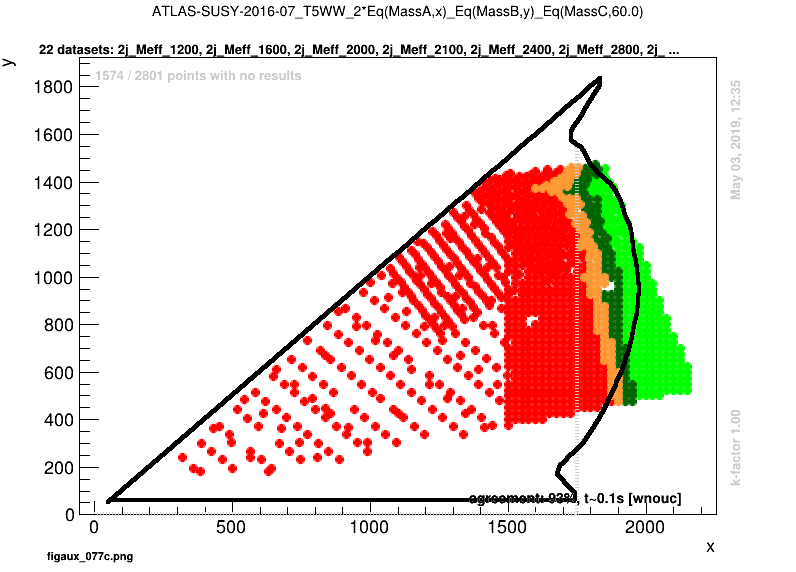
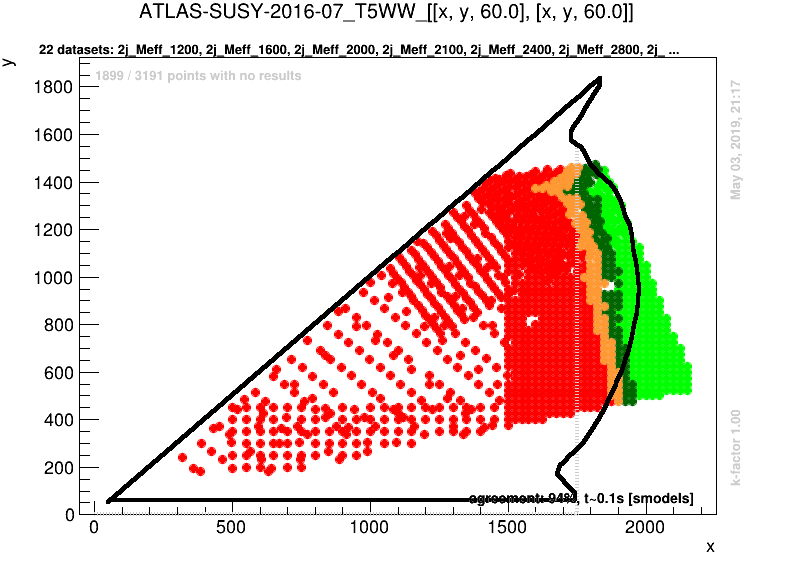
t5ww update

diff --git a/docs/ValidationUgly200rc7.md b/docs/ValidationUgly200rc7.md
@@ -28,7 +28,7 @@ To [official validation plots](Validation200rc7)
 
 | **Result** | **Txname** | **L [1/fb]** | **Validated?** | **Validation plots** | **comment** |
 |------------|------------|--------------|----------------|----------------------|-------------|
-| [ATLAS-SUSY-2016-08](https://atlas.web.cern.ch/Atlas/GROUPS/PHYSICS/PAPERS/SUSY-2016-08/)| [T5Disp](SmsDictionary200rc7#T5Disp)| 32.8| tbd |<a href="https://smodels.github.io/validation/200rc7/13TeV/ATLAS/ATLAS-SUSY-2016-08/validation/T5Disp_2EqMassAx6.582119514e-16_EqMassBy.png"><img src="https://smodels.github.io/validation/200rc7/13TeV/ATLAS/ATLAS-SUSY-2016-08/validation/T5Disp_2EqMassAx6.582119514e-16_EqMassBy.png" /></a><BR><a href="https://smodels.github.io/validation/200rc7/13TeV/ATLAS/ATLAS-SUSY-2016-08/validation/T5Disp_2EqMassAxy_EqMassB100.0.png"><img src="https://smodels.github.io/validation/200rc7/13TeV/ATLAS/ATLAS-SUSY-2016-08/validation/T5Disp_2EqMassAxy_EqMassB100.0.png" /></a><BR><a href="https://smodels.github.io/validation/200rc7/13TeV/ATLAS/ATLAS-SUSY-2016-08/validation/T5Disp_2EqMassAxy_EqMassBx-100.0.png"><img src="https://smodels.github.io/validation/200rc7/13TeV/ATLAS/ATLAS-SUSY-2016-08/validation/T5Disp_2EqMassAxy_EqMassBx-100.0.png" /></a><BR><a href="https://smodels.github.io/validation/200rc7/13TeV/ATLAS/ATLAS-SUSY-2016-08/validation/T5Disp_2EqMassAx_EqWidthA6.582119514e-16_EqMassBy.png"><img src="https://smodels.github.io/validation/200rc7/13TeV/ATLAS/ATLAS-SUSY-2016-08/validation/T5Disp_2EqMassAx_EqWidthA6.582119514e-16_EqMassBy.png" /></a><BR><a href="https://smodels.github.io/validation/200rc7/13TeV/ATLAS/ATLAS-SUSY-2016-08/validation/T5Disp_2EqMassAx_EqWidthAy_EqMassB100.0.png"><img src="https://smodels.github.io/validation/200rc7/13TeV/ATLAS/ATLAS-SUSY-2016-08/validation/T5Disp_2EqMassAx_EqWidthAy_EqMassB100.0.png" /></a><BR><a href="https://smodels.github.io/validation/200rc7/13TeV/ATLAS/ATLAS-SUSY-2016-08/validation/T5Disp_2EqMassAx_EqWidthAy_EqMassBx-100.0.png"><img src="https://smodels.github.io/validation/200rc7/13TeV/ATLAS/ATLAS-SUSY-2016-08/validation/T5Disp_2EqMassAx_EqWidthAy_EqMassBx-100.0.png" /></a>  | <img src="https://smodels.github.io/pics/new.png" /> in 2.0.0rc7!  |
+| [ATLAS-SUSY-2016-08](https://atlas.web.cern.ch/Atlas/GROUPS/PHYSICS/PAPERS/SUSY-2016-08/)| [T5Disp](SmsDictionary200rc7#T5Disp)| 32.8| tbd |<a href="https://smodels.github.io/validation/200rc7/13TeV/ATLAS/ATLAS-SUSY-2016-08/validation/T5Disp_2EqMassAx6.582119514e-16_EqMassBy.png"><img src="https://smodels.github.io/validation/200rc7/13TeV/ATLAS/ATLAS-SUSY-2016-08/validation/T5Disp_2EqMassAx6.582119514e-16_EqMassBy.png" /></a><BR><a href="https://smodels.github.io/validation/200rc7/13TeV/ATLAS/ATLAS-SUSY-2016-08/validation/T5Disp_2EqMassAx_EqWidthA6.582119514e-16_EqMassBy.png"><img src="https://smodels.github.io/validation/200rc7/13TeV/ATLAS/ATLAS-SUSY-2016-08/validation/T5Disp_2EqMassAx_EqWidthA6.582119514e-16_EqMassBy.png" /></a><BR><a href="https://smodels.github.io/validation/200rc7/13TeV/ATLAS/ATLAS-SUSY-2016-08/validation/T5Disp_2EqMassAx_EqWidthAy_EqMassB100.0.png"><img src="https://smodels.github.io/validation/200rc7/13TeV/ATLAS/ATLAS-SUSY-2016-08/validation/T5Disp_2EqMassAx_EqWidthAy_EqMassB100.0.png" /></a><BR><a href="https://smodels.github.io/validation/200rc7/13TeV/ATLAS/ATLAS-SUSY-2016-08/validation/T5Disp_2EqMassAx_EqWidthAy_EqMassBx-100.0.png"><img src="https://smodels.github.io/validation/200rc7/13TeV/ATLAS/ATLAS-SUSY-2016-08/validation/T5Disp_2EqMassAx_EqWidthAy_EqMassBx-100.0.png" /></a><BR><a href="https://smodels.github.io/validation/200rc7/13TeV/ATLAS/ATLAS-SUSY-2016-08/validation/T5Disp_2EqMassAxy_EqMassB100.0.png"><img src="https://smodels.github.io/validation/200rc7/13TeV/ATLAS/ATLAS-SUSY-2016-08/validation/T5Disp_2EqMassAxy_EqMassB100.0.png" /></a><BR><a href="https://smodels.github.io/validation/200rc7/13TeV/ATLAS/ATLAS-SUSY-2016-08/validation/T5Disp_2EqMassAxy_EqMassBx-100.0.png"><img src="https://smodels.github.io/validation/200rc7/13TeV/ATLAS/ATLAS-SUSY-2016-08/validation/T5Disp_2EqMassAxy_EqMassBx-100.0.png" /></a>  | <img src="https://smodels.github.io/pics/new.png" /> in 2.0.0rc7!  |
 
 
 <a name="ATLASefficiencymaps13"></a>
@@ -39,10 +39,10 @@ To [official validation plots](Validation200rc7)
 | [ATLAS-SUSY-2016-07](https://atlas.web.cern.ch/Atlas/GROUPS/PHYSICS/PAPERS/SUSY-2016-07/)| [T1](SmsDictionary200rc7#T1)| 36.1| tbd |<a href="https://smodels.github.io/validation/200rc7/13TeV/ATLAS/ATLAS-SUSY-2016-07-eff/validation/T1_2EqMassAx_EqMassBy.png"><img src="https://smodels.github.io/validation/200rc7/13TeV/ATLAS/ATLAS-SUSY-2016-07-eff/validation/T1_2EqMassAx_EqMassBy.png" /></a>  | <img src="https://smodels.github.io/pics/new.png" /> in 2.0.0rc7!  |
 | | [T2](SmsDictionary200rc7#T2)| 36.1| tbd |<a href="https://smodels.github.io/validation/200rc7/13TeV/ATLAS/ATLAS-SUSY-2016-07-eff/validation/T2_2EqMassAx_EqMassBy.png"><img src="https://smodels.github.io/validation/200rc7/13TeV/ATLAS/ATLAS-SUSY-2016-07-eff/validation/T2_2EqMassAx_EqMassBy.png" /></a>  | <img src="https://smodels.github.io/pics/new.png" /> in 2.0.0rc7!  |
 | | [T5WW](SmsDictionary200rc7#T5WW)| 36.1| tbd |<a href="https://smodels.github.io/validation/200rc7/13TeV/ATLAS/ATLAS-SUSY-2016-07-eff/validation/T5WW_2EqMassAx_EqMassB0.5x+0.5y_EqMassCy.png"><img src="https://smodels.github.io/validation/200rc7/13TeV/ATLAS/ATLAS-SUSY-2016-07-eff/validation/T5WW_2EqMassAx_EqMassB0.5x+0.5y_EqMassCy.png" /></a><BR><a href="https://smodels.github.io/validation/200rc7/13TeV/ATLAS/ATLAS-SUSY-2016-07-eff/validation/T5WW_2EqMassAx_EqMassBy_EqMassC60.0.png"><img src="https://smodels.github.io/validation/200rc7/13TeV/ATLAS/ATLAS-SUSY-2016-07-eff/validation/T5WW_2EqMassAx_EqMassBy_EqMassC60.0.png" /></a>  | <img src="https://smodels.github.io/pics/new.png" /> in 2.0.0rc7!  |
-| | [T5WWoff](SmsDictionary200rc7#T5WWoff)| 36.1| tbd |<a href="https://smodels.github.io/validation/200rc7/13TeV/ATLAS/ATLAS-SUSY-2016-07-eff/validation/T5WWoff_2EqMassAx_EqMassBy_EqMassC60.0.png"><img src="https://smodels.github.io/validation/200rc7/13TeV/ATLAS/ATLAS-SUSY-2016-07-eff/validation/T5WWoff_2EqMassAx_EqMassBy_EqMassC60.0.png" /></a><BR><a href="https://smodels.github.io/validation/200rc7/13TeV/ATLAS/ATLAS-SUSY-2016-07-eff/validation/T5WWoff_2EqMassAx_EqMassB0.5x+0.5y_EqMassCy.png"><img src="https://smodels.github.io/validation/200rc7/13TeV/ATLAS/ATLAS-SUSY-2016-07-eff/validation/T5WWoff_2EqMassAx_EqMassB0.5x+0.5y_EqMassCy.png" /></a>  | <img src="https://smodels.github.io/pics/new.png" /> in 2.0.0rc7!  |
+| | [T5WWoff](SmsDictionary200rc7#T5WWoff)| 36.1| tbd |<a href="https://smodels.github.io/validation/200rc7/13TeV/ATLAS/ATLAS-SUSY-2016-07-eff/validation/T5WWoff_2EqMassAx_EqMassB0.5x+0.5y_EqMassCy.png"><img src="https://smodels.github.io/validation/200rc7/13TeV/ATLAS/ATLAS-SUSY-2016-07-eff/validation/T5WWoff_2EqMassAx_EqMassB0.5x+0.5y_EqMassCy.png" /></a><BR><a href="https://smodels.github.io/validation/200rc7/13TeV/ATLAS/ATLAS-SUSY-2016-07-eff/validation/T5WWoff_2EqMassAx_EqMassBy_EqMassC60.0.png"><img src="https://smodels.github.io/validation/200rc7/13TeV/ATLAS/ATLAS-SUSY-2016-07-eff/validation/T5WWoff_2EqMassAx_EqMassBy_EqMassC60.0.png" /></a>  | <img src="https://smodels.github.io/pics/new.png" /> in 2.0.0rc7!  |
 | | [T5WZh](SmsDictionary200rc7#T5WZh)| 36.1| tbd |<a href="https://smodels.github.io/validation/200rc7/13TeV/ATLAS/ATLAS-SUSY-2016-07-eff/validation/T5WZh_2EqMassAx_EqMassBy_EqMassC60.0.png"><img src="https://smodels.github.io/validation/200rc7/13TeV/ATLAS/ATLAS-SUSY-2016-07-eff/validation/T5WZh_2EqMassAx_EqMassBy_EqMassC60.0.png" /></a>  | <img src="https://smodels.github.io/pics/new.png" /> in 2.0.0rc7!  |
 | | [T5ZZ](SmsDictionary200rc7#T5ZZ)| 36.1| tbd |<a href="https://smodels.github.io/validation/200rc7/13TeV/ATLAS/ATLAS-SUSY-2016-07-eff/validation/T5ZZ_2EqMassAx_EqMassBy_EqMassC1.0.png"><img src="https://smodels.github.io/validation/200rc7/13TeV/ATLAS/ATLAS-SUSY-2016-07-eff/validation/T5ZZ_2EqMassAx_EqMassBy_EqMassC1.0.png" /></a>  | <img src="https://smodels.github.io/pics/new.png" /> in 2.0.0rc7!  |
-| | [T6WW](SmsDictionary200rc7#T6WW)| 36.1| tbd |<a href="https://smodels.github.io/validation/200rc7/13TeV/ATLAS/ATLAS-SUSY-2016-07-eff/validation/T6WW_2EqMassAx_EqMassB0.5x+0.5y_EqMassCy.png"><img src="https://smodels.github.io/validation/200rc7/13TeV/ATLAS/ATLAS-SUSY-2016-07-eff/validation/T6WW_2EqMassAx_EqMassB0.5x+0.5y_EqMassCy.png" /></a><BR><a href="https://smodels.github.io/validation/200rc7/13TeV/ATLAS/ATLAS-SUSY-2016-07-eff/validation/T6WW_2EqMassAx_EqMassBy_EqMassC60.0.png"><img src="https://smodels.github.io/validation/200rc7/13TeV/ATLAS/ATLAS-SUSY-2016-07-eff/validation/T6WW_2EqMassAx_EqMassBy_EqMassC60.0.png" /></a>  | <img src="https://smodels.github.io/pics/new.png" /> in 2.0.0rc7!  |
+| | [T6WW](SmsDictionary200rc7#T6WW)| 36.1| tbd |<a href="https://smodels.github.io/validation/200rc7/13TeV/ATLAS/ATLAS-SUSY-2016-07-eff/validation/T6WW_2EqMassAx_EqMassBy_EqMassC60.0.png"><img src="https://smodels.github.io/validation/200rc7/13TeV/ATLAS/ATLAS-SUSY-2016-07-eff/validation/T6WW_2EqMassAx_EqMassBy_EqMassC60.0.png" /></a><BR><a href="https://smodels.github.io/validation/200rc7/13TeV/ATLAS/ATLAS-SUSY-2016-07-eff/validation/T6WW_2EqMassAx_EqMassB0.5x+0.5y_EqMassCy.png"><img src="https://smodels.github.io/validation/200rc7/13TeV/ATLAS/ATLAS-SUSY-2016-07-eff/validation/T6WW_2EqMassAx_EqMassB0.5x+0.5y_EqMassCy.png" /></a>  | <img src="https://smodels.github.io/pics/new.png" /> in 2.0.0rc7!  |
 | | [T6WWoff](SmsDictionary200rc7#T6WWoff)| 36.1| tbd |<a href="https://smodels.github.io/validation/200rc7/13TeV/ATLAS/ATLAS-SUSY-2016-07-eff/validation/T6WWoff_2EqMassAx_EqMassBy_EqMassC60.0.png"><img src="https://smodels.github.io/validation/200rc7/13TeV/ATLAS/ATLAS-SUSY-2016-07-eff/validation/T6WWoff_2EqMassAx_EqMassBy_EqMassC60.0.png" /></a><BR><a href="https://smodels.github.io/validation/200rc7/13TeV/ATLAS/ATLAS-SUSY-2016-07-eff/validation/T6WWoff_2EqMassAx_EqMassB0.5x+0.5y_EqMassCy.png"><img src="https://smodels.github.io/validation/200rc7/13TeV/ATLAS/ATLAS-SUSY-2016-07-eff/validation/T6WWoff_2EqMassAx_EqMassB0.5x+0.5y_EqMassCy.png" /></a>  | <img src="https://smodels.github.io/pics/new.png" /> in 2.0.0rc7!  |
 | | [T6WZh](SmsDictionary200rc7#T6WZh)| 36.1| tbd |<a href="https://smodels.github.io/validation/200rc7/13TeV/ATLAS/ATLAS-SUSY-2016-07-eff/validation/T6WZh_2EqMassAx_EqMassBy_EqMassC60.0.png"><img src="https://smodels.github.io/validation/200rc7/13TeV/ATLAS/ATLAS-SUSY-2016-07-eff/validation/T6WZh_2EqMassAx_EqMassBy_EqMassC60.0.png" /></a>  | <img src="https://smodels.github.io/pics/new.png" /> in 2.0.0rc7!  |
 | | [TGQ](SmsDictionary200rc7#TGQ)| 36.1| tbd |  | <img src="https://smodels.github.io/pics/new.png" /> in 2.0.0rc7!  |
@@ -55,4 +55,4 @@ To [official validation plots](Validation200rc7)
 |------------|------------|--------------|----------------|----------------------|-------------|
 | [CMS-EXO-13-006](http://cms-results.web.cern.ch/cms-results/public-results/publications/EXO-13-006/index.html)| [THSCPM1Disp](SmsDictionary200rc7#THSCPM1Disp)| 18.8| tbd |<a href="https://smodels.github.io/validation/200rc7/8TeV/CMS/CMS-EXO-13-006-eff/validation/THSCPM1Disp_2EqMassAxy.png"><img src="https://smodels.github.io/validation/200rc7/8TeV/CMS/CMS-EXO-13-006-eff/validation/THSCPM1Disp_2EqMassAxy.png" /></a>  | <img src="https://smodels.github.io/pics/new.png" /> in 2.0.0rc7!  |
 
-This page was created Fri May  3 12:47:53 2019
+This page was created Fri May  3 21:20:09 2019

diff --git a/docs/Validation200rc7.md b/docs/Validation200rc7.md
@@ -25,7 +25,7 @@ The validation procedure for upper limit maps used here is explained in [arXiv:1
 
 | **Result** | **Txname** | **L [1/fb]** | **Validation plots** | **comment** |
 |------------|------------|--------------|----------------------|-------------|
-| [ATLAS-SUSY-2016-08](https://atlas.web.cern.ch/Atlas/GROUPS/PHYSICS/PAPERS/SUSY-2016-08/)| [T5Disp](SmsDictionary200rc7#T5Disp)| 32.8|<a href="https://smodels.github.io/validation/200rc7/13TeV/ATLAS/ATLAS-SUSY-2016-08/validation/T5Disp_2EqMassAx6.582119514e-16_EqMassBy_pretty.png"><img src="https://smodels.github.io/validation/200rc7/13TeV/ATLAS/ATLAS-SUSY-2016-08/validation/T5Disp_2EqMassAx6.582119514e-16_EqMassBy_pretty.png" /></a><BR><a href="https://smodels.github.io/validation/200rc7/13TeV/ATLAS/ATLAS-SUSY-2016-08/validation/T5Disp_2EqMassAxy_EqMassB100.0_pretty.png"><img src="https://smodels.github.io/validation/200rc7/13TeV/ATLAS/ATLAS-SUSY-2016-08/validation/T5Disp_2EqMassAxy_EqMassB100.0_pretty.png" /></a><BR><a href="https://smodels.github.io/validation/200rc7/13TeV/ATLAS/ATLAS-SUSY-2016-08/validation/T5Disp_2EqMassAxy_EqMassBx-100.0_pretty.png"><img src="https://smodels.github.io/validation/200rc7/13TeV/ATLAS/ATLAS-SUSY-2016-08/validation/T5Disp_2EqMassAxy_EqMassBx-100.0_pretty.png" /></a><BR><a href="https://smodels.github.io/validation/200rc7/13TeV/ATLAS/ATLAS-SUSY-2016-08/validation/T5Disp_2EqMassAx_EqWidthA6.582119514e-16_EqMassBy_pretty.png"><img src="https://smodels.github.io/validation/200rc7/13TeV/ATLAS/ATLAS-SUSY-2016-08/validation/T5Disp_2EqMassAx_EqWidthA6.582119514e-16_EqMassBy_pretty.png" /></a><BR><a href="https://smodels.github.io/validation/200rc7/13TeV/ATLAS/ATLAS-SUSY-2016-08/validation/T5Disp_2EqMassAx_EqWidthAy_EqMassB100.0_pretty.png"><img src="https://smodels.github.io/validation/200rc7/13TeV/ATLAS/ATLAS-SUSY-2016-08/validation/T5Disp_2EqMassAx_EqWidthAy_EqMassB100.0_pretty.png" /></a><BR><a href="https://smodels.github.io/validation/200rc7/13TeV/ATLAS/ATLAS-SUSY-2016-08/validation/T5Disp_2EqMassAx_EqWidthAy_EqMassBx-100.0_pretty.png"><img src="https://smodels.github.io/validation/200rc7/13TeV/ATLAS/ATLAS-SUSY-2016-08/validation/T5Disp_2EqMassAx_EqWidthAy_EqMassBx-100.0_pretty.png" /></a>  | <img src="https://smodels.github.io/pics/new.png" /> in 2.0.0rc7!  |
+| [ATLAS-SUSY-2016-08](https://atlas.web.cern.ch/Atlas/GROUPS/PHYSICS/PAPERS/SUSY-2016-08/)| [T5Disp](SmsDictionary200rc7#T5Disp)| 32.8|<a href="https://smodels.github.io/validation/200rc7/13TeV/ATLAS/ATLAS-SUSY-2016-08/validation/T5Disp_2EqMassAx6.582119514e-16_EqMassBy_pretty.png"><img src="https://smodels.github.io/validation/200rc7/13TeV/ATLAS/ATLAS-SUSY-2016-08/validation/T5Disp_2EqMassAx6.582119514e-16_EqMassBy_pretty.png" /></a><BR><a href="https://smodels.github.io/validation/200rc7/13TeV/ATLAS/ATLAS-SUSY-2016-08/validation/T5Disp_2EqMassAx_EqWidthA6.582119514e-16_EqMassBy_pretty.png"><img src="https://smodels.github.io/validation/200rc7/13TeV/ATLAS/ATLAS-SUSY-2016-08/validation/T5Disp_2EqMassAx_EqWidthA6.582119514e-16_EqMassBy_pretty.png" /></a><BR><a href="https://smodels.github.io/validation/200rc7/13TeV/ATLAS/ATLAS-SUSY-2016-08/validation/T5Disp_2EqMassAx_EqWidthAy_EqMassB100.0_pretty.png"><img src="https://smodels.github.io/validation/200rc7/13TeV/ATLAS/ATLAS-SUSY-2016-08/validation/T5Disp_2EqMassAx_EqWidthAy_EqMassB100.0_pretty.png" /></a><BR><a href="https://smodels.github.io/validation/200rc7/13TeV/ATLAS/ATLAS-SUSY-2016-08/validation/T5Disp_2EqMassAx_EqWidthAy_EqMassBx-100.0_pretty.png"><img src="https://smodels.github.io/validation/200rc7/13TeV/ATLAS/ATLAS-SUSY-2016-08/validation/T5Disp_2EqMassAx_EqWidthAy_EqMassBx-100.0_pretty.png" /></a><BR><a href="https://smodels.github.io/validation/200rc7/13TeV/ATLAS/ATLAS-SUSY-2016-08/validation/T5Disp_2EqMassAxy_EqMassB100.0_pretty.png"><img src="https://smodels.github.io/validation/200rc7/13TeV/ATLAS/ATLAS-SUSY-2016-08/validation/T5Disp_2EqMassAxy_EqMassB100.0_pretty.png" /></a><BR><a href="https://smodels.github.io/validation/200rc7/13TeV/ATLAS/ATLAS-SUSY-2016-08/validation/T5Disp_2EqMassAxy_EqMassBx-100.0_pretty.png"><img src="https://smodels.github.io/validation/200rc7/13TeV/ATLAS/ATLAS-SUSY-2016-08/validation/T5Disp_2EqMassAxy_EqMassBx-100.0_pretty.png" /></a>  | <img src="https://smodels.github.io/pics/new.png" /> in 2.0.0rc7!  |
 
 
 <a name="ATLASefficiencymaps13"></a>
@@ -35,8 +35,8 @@ The validation procedure for upper limit maps used here is explained in [arXiv:1
 |------------|------------|--------------|----------------------|-------------|
 | [ATLAS-SUSY-2016-07](https://atlas.web.cern.ch/Atlas/GROUPS/PHYSICS/PAPERS/SUSY-2016-07/)| [T1](SmsDictionary200rc7#T1)| 36.1|<a href="https://smodels.github.io/validation/200rc7/13TeV/ATLAS/ATLAS-SUSY-2016-07-eff/validation/T1_2EqMassAx_EqMassBy_pretty.png"><img src="https://smodels.github.io/validation/200rc7/13TeV/ATLAS/ATLAS-SUSY-2016-07-eff/validation/T1_2EqMassAx_EqMassBy_pretty.png" /></a>  | <img src="https://smodels.github.io/pics/new.png" /> in 2.0.0rc7!  |
 | | [T2](SmsDictionary200rc7#T2)| 36.1|<a href="https://smodels.github.io/validation/200rc7/13TeV/ATLAS/ATLAS-SUSY-2016-07-eff/validation/T2_2EqMassAx_EqMassBy_pretty.png"><img src="https://smodels.github.io/validation/200rc7/13TeV/ATLAS/ATLAS-SUSY-2016-07-eff/validation/T2_2EqMassAx_EqMassBy_pretty.png" /></a>  | <img src="https://smodels.github.io/pics/new.png" /> in 2.0.0rc7!  |
-| | [T5WW](SmsDictionary200rc7#T5WW)| 36.1|<a href="https://smodels.github.io/validation/200rc7/13TeV/ATLAS/ATLAS-SUSY-2016-07-eff/validation/T5WW_2EqMassAx_EqMassB0.5x+0.5y_EqMassCy_pretty.png"><img src="https://smodels.github.io/validation/200rc7/13TeV/ATLAS/ATLAS-SUSY-2016-07-eff/validation/T5WW_2EqMassAx_EqMassB0.5x+0.5y_EqMassCy_pretty.png" /></a><BR><a href="https://smodels.github.io/validation/200rc7/13TeV/ATLAS/ATLAS-SUSY-2016-07-eff/validation/T5WW_2EqMassAx_EqMassBy_EqMassC60.0_pretty.png"><img src="https://smodels.github.io/validation/200rc7/13TeV/ATLAS/ATLAS-SUSY-2016-07-eff/validation/T5WW_2EqMassAx_EqMassBy_EqMassC60.0_pretty.png" /></a>  | <img src="https://smodels.github.io/pics/new.png" /> in 2.0.0rc7!  |
-| | [T5WWoff](SmsDictionary200rc7#T5WWoff)| 36.1|<a href="https://smodels.github.io/validation/200rc7/13TeV/ATLAS/ATLAS-SUSY-2016-07-eff/validation/T5WWoff_2EqMassAx_EqMassB0.5x+0.5y_EqMassCy_pretty.png"><img src="https://smodels.github.io/validation/200rc7/13TeV/ATLAS/ATLAS-SUSY-2016-07-eff/validation/T5WWoff_2EqMassAx_EqMassB0.5x+0.5y_EqMassCy_pretty.png" /></a><BR><a href="https://smodels.github.io/validation/200rc7/13TeV/ATLAS/ATLAS-SUSY-2016-07-eff/validation/T5WWoff_2EqMassAx_EqMassBy_EqMassC60.0_pretty.png"><img src="https://smodels.github.io/validation/200rc7/13TeV/ATLAS/ATLAS-SUSY-2016-07-eff/validation/T5WWoff_2EqMassAx_EqMassBy_EqMassC60.0_pretty.png" /></a>  | <img src="https://smodels.github.io/pics/new.png" /> in 2.0.0rc7!  |
+| | [T5WW](SmsDictionary200rc7#T5WW)| 36.1|<a href="https://smodels.github.io/validation/200rc7/13TeV/ATLAS/ATLAS-SUSY-2016-07-eff/validation/T5WW_2EqMassAx_EqMassBy_EqMassC60.0_pretty.png"><img src="https://smodels.github.io/validation/200rc7/13TeV/ATLAS/ATLAS-SUSY-2016-07-eff/validation/T5WW_2EqMassAx_EqMassBy_EqMassC60.0_pretty.png" /></a><BR><a href="https://smodels.github.io/validation/200rc7/13TeV/ATLAS/ATLAS-SUSY-2016-07-eff/validation/T5WW_2EqMassAx_EqMassB0.5x+0.5y_EqMassCy_pretty.png"><img src="https://smodels.github.io/validation/200rc7/13TeV/ATLAS/ATLAS-SUSY-2016-07-eff/validation/T5WW_2EqMassAx_EqMassB0.5x+0.5y_EqMassCy_pretty.png" /></a>  | <img src="https://smodels.github.io/pics/new.png" /> in 2.0.0rc7!  |
+| | [T5WWoff](SmsDictionary200rc7#T5WWoff)| 36.1|<a href="https://smodels.github.io/validation/200rc7/13TeV/ATLAS/ATLAS-SUSY-2016-07-eff/validation/T5WWoff_2EqMassAx_EqMassBy_EqMassC60.0_pretty.png"><img src="https://smodels.github.io/validation/200rc7/13TeV/ATLAS/ATLAS-SUSY-2016-07-eff/validation/T5WWoff_2EqMassAx_EqMassBy_EqMassC60.0_pretty.png" /></a><BR><a href="https://smodels.github.io/validation/200rc7/13TeV/ATLAS/ATLAS-SUSY-2016-07-eff/validation/T5WWoff_2EqMassAx_EqMassB0.5x+0.5y_EqMassCy_pretty.png"><img src="https://smodels.github.io/validation/200rc7/13TeV/ATLAS/ATLAS-SUSY-2016-07-eff/validation/T5WWoff_2EqMassAx_EqMassB0.5x+0.5y_EqMassCy_pretty.png" /></a>  | <img src="https://smodels.github.io/pics/new.png" /> in 2.0.0rc7!  |
 | | [T5WZh](SmsDictionary200rc7#T5WZh)| 36.1|<a href="https://smodels.github.io/validation/200rc7/13TeV/ATLAS/ATLAS-SUSY-2016-07-eff/validation/T5WZh_2EqMassAx_EqMassBy_EqMassC60.0_pretty.png"><img src="https://smodels.github.io/validation/200rc7/13TeV/ATLAS/ATLAS-SUSY-2016-07-eff/validation/T5WZh_2EqMassAx_EqMassBy_EqMassC60.0_pretty.png" /></a>  | <img src="https://smodels.github.io/pics/new.png" /> in 2.0.0rc7!  |
 | | [T5ZZ](SmsDictionary200rc7#T5ZZ)| 36.1|<a href="https://smodels.github.io/validation/200rc7/13TeV/ATLAS/ATLAS-SUSY-2016-07-eff/validation/T5ZZ_2EqMassAx_EqMassBy_EqMassC1.0_pretty.png"><img src="https://smodels.github.io/validation/200rc7/13TeV/ATLAS/ATLAS-SUSY-2016-07-eff/validation/T5ZZ_2EqMassAx_EqMassBy_EqMassC1.0_pretty.png" /></a>  | <img src="https://smodels.github.io/pics/new.png" /> in 2.0.0rc7!  |
 | | [T6WW](SmsDictionary200rc7#T6WW)| 36.1|<a href="https://smodels.github.io/validation/200rc7/13TeV/ATLAS/ATLAS-SUSY-2016-07-eff/validation/T6WW_2EqMassAx_EqMassB0.5x+0.5y_EqMassCy_pretty.png"><img src="https://smodels.github.io/validation/200rc7/13TeV/ATLAS/ATLAS-SUSY-2016-07-eff/validation/T6WW_2EqMassAx_EqMassB0.5x+0.5y_EqMassCy_pretty.png" /></a><BR><a href="https://smodels.github.io/validation/200rc7/13TeV/ATLAS/ATLAS-SUSY-2016-07-eff/validation/T6WW_2EqMassAx_EqMassBy_EqMassC60.0_pretty.png"><img src="https://smodels.github.io/validation/200rc7/13TeV/ATLAS/ATLAS-SUSY-2016-07-eff/validation/T6WW_2EqMassAx_EqMassBy_EqMassC60.0_pretty.png" /></a>  | <img src="https://smodels.github.io/pics/new.png" /> in 2.0.0rc7!  |
@@ -52,4 +52,4 @@ The validation procedure for upper limit maps used here is explained in [arXiv:1
 |------------|------------|--------------|----------------------|-------------|
 | [CMS-EXO-13-006](http://cms-results.web.cern.ch/cms-results/public-results/publications/EXO-13-006/index.html)| [THSCPM1Disp](SmsDictionary200rc7#THSCPM1Disp)| 18.8|<a href="https://smodels.github.io/validation/200rc7/8TeV/CMS/CMS-EXO-13-006-eff/validation/THSCPM1Disp_2EqMassAxy_pretty.png"><img src="https://smodels.github.io/validation/200rc7/8TeV/CMS/CMS-EXO-13-006-eff/validation/THSCPM1Disp_2EqMassAxy_pretty.png" /></a>  | <img src="https://smodels.github.io/pics/new.png" /> in 2.0.0rc7!  |
 
-This page was created Fri May  3 12:47:36 2019
+This page was created Fri May  3 21:19:45 2019

diff --git a/docs/SmsDictionary200rc7.md b/docs/SmsDictionary200rc7.md
@@ -8,8 +8,8 @@ There is also a [ListOfAnalyses200rc7](https://smodels.github.io/docs/ListOfAnal
 
 | **#** | **Tx** | **Topology** | **Graph** | **Appears in** |
 | ----- | ------ | ------------ | --------- | -------------- |
+| 1 | <a name="T1"></a>**T1**<br><BR><a name="T5Disp"></a>**T5Disp**<br> | `[[[q,q]],[[q,q]]]`<BR>`(MET,MET)` | ![T5Disp](../feyn/straight/T5Disp.png) | [ATLAS-SUSY-2016-07](ListOfAnalyses200rc7#ATLAS-SUSY-2016-07)<BR>[ATLAS-SUSY-2016-08](ListOfAnalyses200rc7#ATLAS-SUSY-2016-08)|
 | 2 | <a name="T2"></a>**T2**<br> | `[[[q]],[[q]]]`<BR>`(MET,MET)` | ![T2](../feyn/straight/T2.png) | [ATLAS-SUSY-2016-07](ListOfAnalyses200rc7#ATLAS-SUSY-2016-07)|
-| 3 | <a name="T5Disp"></a>**T5Disp**<br><BR><a name="T1"></a>**T1**<br> | `[[[q,q]],[[q,q]]]`<BR>`(MET,MET)` | ![T1](../feyn/straight/T1.png) | [ATLAS-SUSY-2016-07](ListOfAnalyses200rc7#ATLAS-SUSY-2016-07)<BR>[ATLAS-SUSY-2016-08](ListOfAnalyses200rc7#ATLAS-SUSY-2016-08)|
 | 4 | <a name="T5WW"></a>**T5WW**<br> | `[[[q,q],[W]],[[q,q],[W]]]`<BR>`(MET,MET)` | ![T5WW](../feyn/straight/T5WW.png) | [ATLAS-SUSY-2016-07](ListOfAnalyses200rc7#ATLAS-SUSY-2016-07)|
 | 5 | <a name="T5WWoff"></a>**T5WWoff**<br> | `[[[q,q],[q,q]],[[q,q],[q,q]]]`<BR>`(MET,MET)` | ![T5WWoff](../feyn/straight/T5WWoff.png) | [ATLAS-SUSY-2016-07](ListOfAnalyses200rc7#ATLAS-SUSY-2016-07)|
 | 6 | <a name="T5WZh"></a>**T5WZh**<br> | `[[[q,q],[Z]],[[q,q],[W]]]+`<BR>`[[[q,q],[h]],[[q,q],[W]]]`<BR>`(MET,MET)` | ![T5WZh](../feyn/straight/T5WZh.png) | [ATLAS-SUSY-2016-07](ListOfAnalyses200rc7#ATLAS-SUSY-2016-07)|
